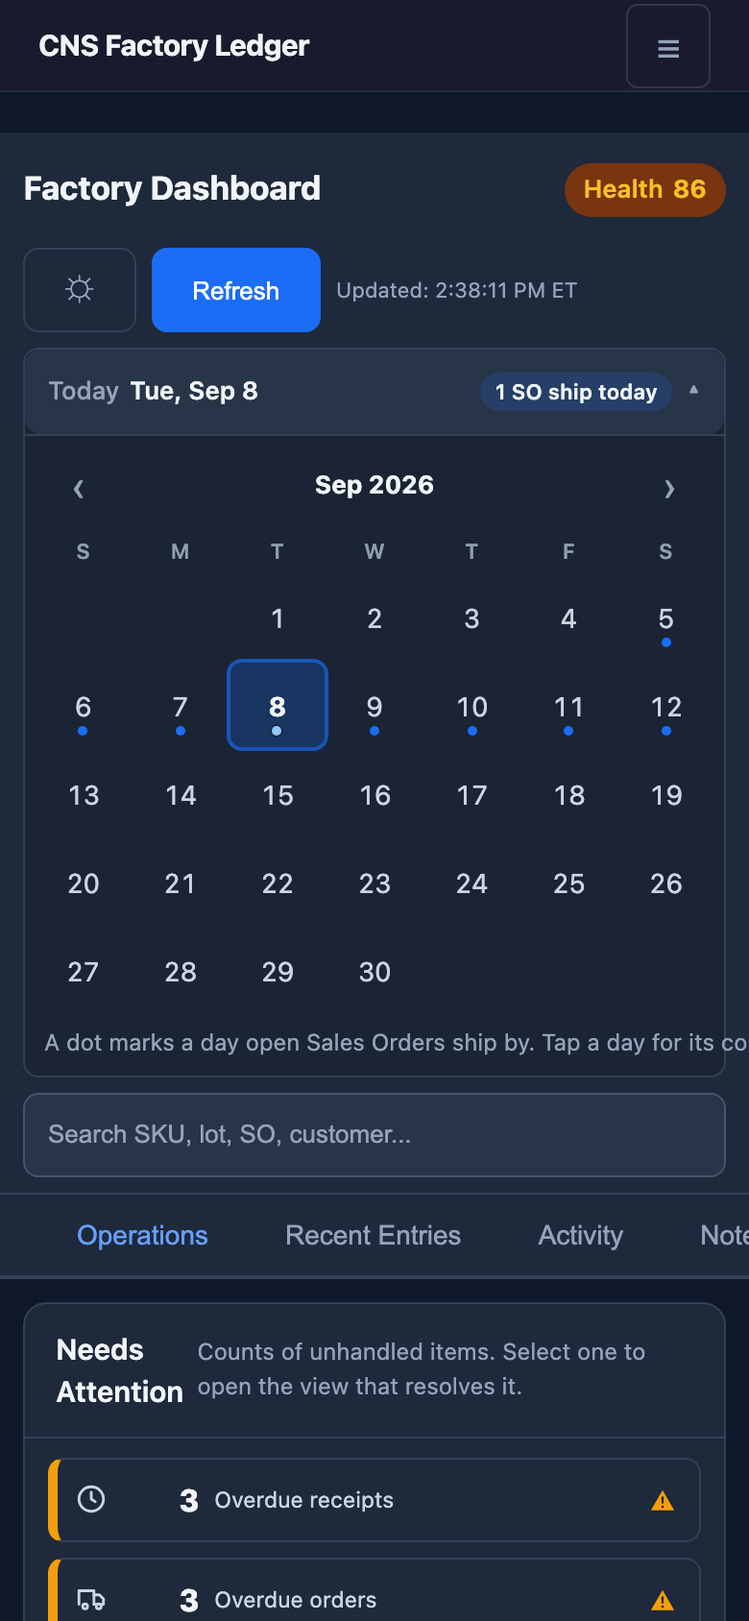
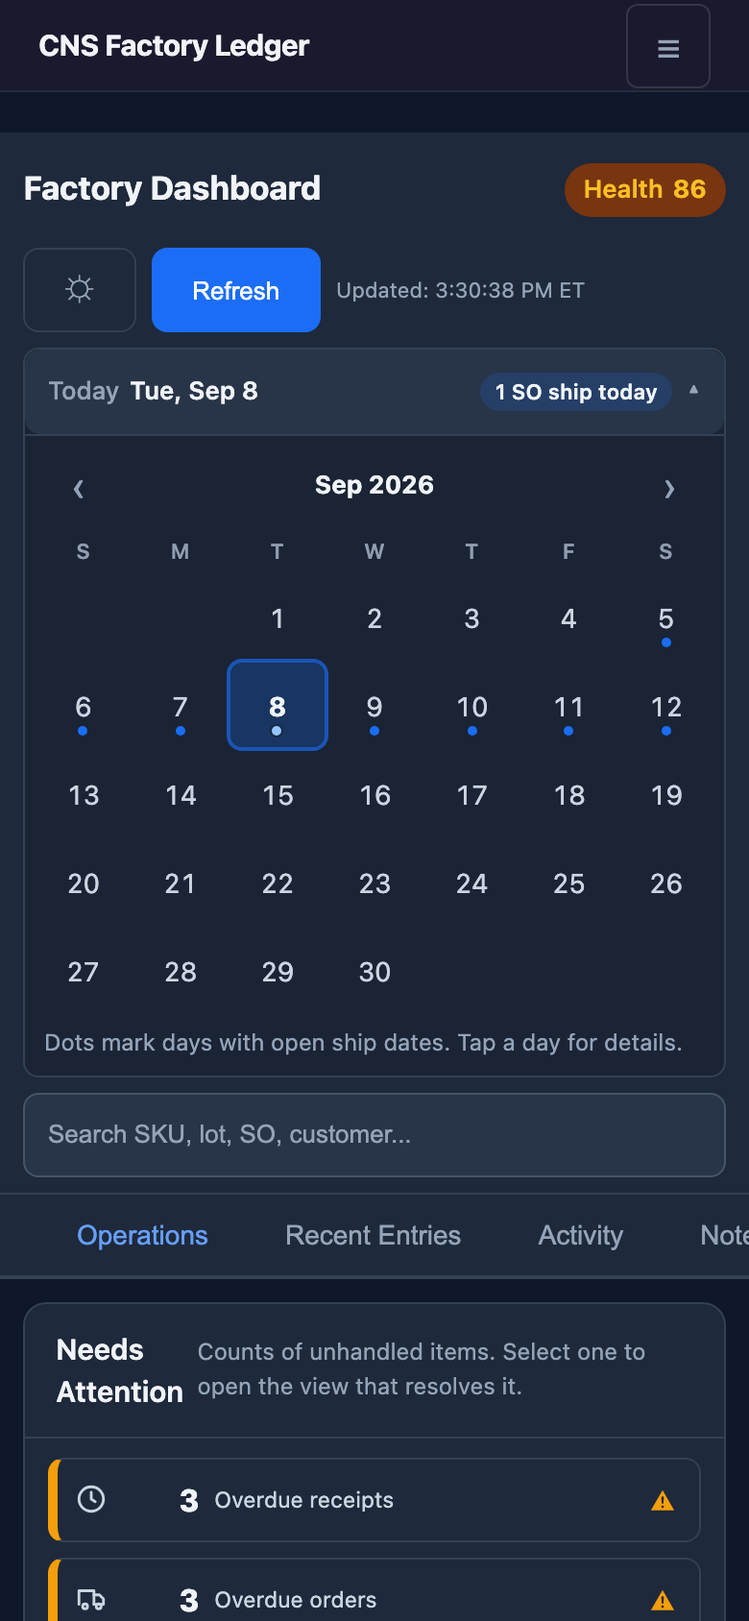
fix(dashboard): IMP-069 — expanded-calendar caption wraps at 390px; harness screen S-02b; IMP-071 note
.mini-calendar-caption { white-space: normal } inside the ≤520px block:
the strip sits in .header-right, whose nowrap inherits through
display: contents, so the caption rendered as one line and widened the
document. Default caption reworded to "Dots mark days with open ship
dates. Tap a day for details."

New harness screen S-02b taps the toggle after load so LAYOUT-003
measures the expanded month at 390px: 0px overflow, 33/33 targets ≥44pt,
45/45 text nodes AA in both themes. Measured directly: scrollWidth 390
with the month open, caption 344px wide.

IMPROVEMENTS-MASTER: one paragraph under IMP-071 on the phone Orders
toolbar's two alignments (.orders-filters keeps align-items: center as a
column; the button row stays left). Cache-bust mini-calendar.css?v=4→5,
mini-calendar.js?v=5→6 on all four pages; matrix regenerated.

Claude-Session: https://claude.ai/code/session_01K6hx2RBBbQen3JPZTQNkxX

diff --git a/dashboard/mini-calendar.js b/dashboard/mini-calendar.js
@@ -137,7 +137,7 @@
       const selDate = new Date(sel[0], sel[1] - 1, sel[2]);
       caption = TODAY_FMT.format(selDate) + ' — ' + shipPhrase(shipDateCounts[ui.selectedKey] || 0);
     } else {
-      caption = 'A dot marks a day open Sales Orders ship by. Tap a day for its count.';
+      caption = 'Dots mark days with open ship dates. Tap a day for details.';
     }
     root.innerHTML = `
       <button type="button" class="mini-calendar-toggle" aria-expanded="${ui.expanded}" aria-controls="${panelId}">

diff --git a/dashboard/mini-calendar.css b/dashboard/mini-calendar.css
@@ -265,4 +265,8 @@
     line-height: 1.4;
     color: var(--text-muted, #94a3b8);
   }
+  /* The strip sits inside .header-right, whose white-space: nowrap
+     inherits through display: contents; without this the caption is one
+     long line and widens the document past 390px. */
+  .mini-calendar-caption { white-space: normal; }
 }

diff --git a/FACTORY_LEDGER_CHANGELOG.md b/FACTORY_LEDGER_CHANGELOG.md
@@ -5,7 +5,7 @@ Every fix is logged here so future sessions know what breaks if a change is reve
 ## Change History
 
 | # | Date | Area | What Changed | Problem It Solved | Breaks If Reverted | Migration/File |
-| 119 | 2026-09-08 | Dashboard phone entry screen — IMP-069 / IMP-070 / IMP-072 / IMP-073 + the phone-header half of IMP-038 (branch `feat/mobile-entry-screen`, based on `main` at `b216d6f` — **PR open, NOT merged/deployed**; static dashboard assets and audit docs only, `main.py`, migrations and GPT instructions untouched) | Everything is scoped to `@media (max-width: 520px)` except two visually-hidden spans. **IMP-069** `b8c3283`: below 520px `mini-calendar.js` renders a compact form instead of the three-month strip — a 44px row (*Today · Tue, Sep 8*, a pill with today's open-SO count when non-zero, a ▾) that expands the current month inline with `--hit-min` prev/next and 44px day `<button>`s whose tap reads the day's ship count into an `aria-live` caption; open state and selected day survive the re-render a ship-count refresh triggers; a `matchMedia('(max-width: 520px)')` listener re-renders across the breakpoint. `renderStrip()` (desktop) is byte-identical; the old ≤520px CSS block is replaced by the compact rules. **IMP-038 (phone header only)** `ca9a8e4`: `.app-header` is a four-row grid at ≤520px — title + health badge, theme / Refresh / Updated at 44px, the collapsed calendar, search — with `.header-left` / `.header-right { display: contents }`; Needs Attention starts at y=357 of 844 with all seven chips above the fold (was y≈690). **IMP-073** `ca9a8e4`: `#health-badge` holds `<span class="health-label">Health</span> <span class="health-score">` — label sr-only above 520px (desktop box unchanged, accessible name now "Health 86"), visible on phone; `refreshHealthBadge` writes into `.health-score` via `setHealthScore()`. **IMP-072** `ca9a8e4`: `formatShipByDate(dateStr, overdue)` adds an `#i-alert` glyph (`.ship-by-flag`, shown ≤520px) and sr-only ", overdue" text (every width) to the weekday line; both callers pass their overdue flag. **IMP-070** `ca9a8e4` + `731ca2a`: `white-space: nowrap` on `td .order-link`, `td .lot-link`, `td .er-reference` (new span round the ER reference / PO), `.order-number`, `.supply-lot-code`, new `.supply-reference` — inside the ≤520px block. `.ship-by-weekday` and `.health-badge` are `position: relative` to contain the sr-only spans. Cache-bust `dashboard.css?v=32→33`, `dashboard.js?v=45→46`, `mini-calendar.css?v=3→4`, `mini-calendar.js?v=4→5` on all four pages. | Phone review of production at 390px (IMP-068…073): three months of 8px display-only digits dominated the first screen and pushed Needs Attention below the fold; the header took four rows; the health badge was a bare number with only a tooltip; SO numbers wrapped at their hyphens across three lines; the overdue weekday was red-only. 384-capture re-run against `main`: TOUCH-003, ACCESS-008, LAYOUT-003 and LAYOUT-011 **cell-identical** (116 / 0 / 12 / 0 failing cells before and after); LAYOUT-020 moved 9 cells, 4 one way and 5 the other, all in the S-07/S-10/S-16/S-17/S-19/S-22 set that flips on unmodified `main` between runs (S-16/S-17 at 390 fail 7 of 12 baseline runs on the same 0.47 shift — the Activity sections emptied and refilled on refresh, SYS-2). Desktop pixel diff with `Date` frozen: 252 desktop-tier captures (1440 light/dark, 720@2× light/dark), 469 differing pixels in total, max channel delta 1/255 — the same anti-aliasing noise two captures of `main` show against each other (363 px). | **The nowrap rule must stay inside the ≤520px block until someone accepts the desktop re-flow**: at 1440px the SO # column already wraps `SO-` / `1421` on `main`, and a width-independent nowrap changes the Orders table's column widths (this is how the rule was first written and caught). **`.ship-by-weekday { position: relative }` and `.health-badge { position: relative }` must stay with the sr-only spans** — without them the absolutely-positioned hidden text escapes `.table-scroll` and widened the Expected Receipts tab by 259px at 390px (first cut, caught by LAYOUT-003). **`setHealthScore` and the two badge spans move together**: `badge.textContent = score` would wipe the label. **`.header-right { display: contents }` needs every grid-area assignment below it** — dropping the areas leaves the header's children auto-placed in a three-column grid. The compact calendar depends on `matchMedia`; without it `isCompact()` is false and the desktop strip renders at every width (the old behaviour, not a crash). `.ship-by-flag` is `display: none` above 520px on purpose — lifting it shows the glyph on desktop, a deliberate follow-up. Not bumping `?v=` on a future edit to these assets serves stale cached copies against fresh HTML. | `dashboard/mini-calendar.js`, `dashboard/mini-calendar.css`, `dashboard/dashboard.css`, `dashboard/dashboard.js`, `dashboard/index.html`, `dashboard/sankey.html`, `dashboard/process-flow.html`, `dashboard/traceability.html`, `docs/design/audit/06-browser-check.md`, `docs/design/audit/IMPROVEMENTS-MASTER.md`, `docs/design/audit/pr-screenshots/feat-mobile-entry-screen/` |
+| 119 | 2026-09-08 | Dashboard phone entry screen — IMP-069 / IMP-070 / IMP-072 / IMP-073 + the phone-header half of IMP-038 (branch `feat/mobile-entry-screen`, based on `main` at `b216d6f` — **PR open, NOT merged/deployed**; static dashboard assets and audit docs only, `main.py`, migrations and GPT instructions untouched) | Everything is scoped to `@media (max-width: 520px)` except two visually-hidden spans. **IMP-069** `b8c3283`: below 520px `mini-calendar.js` renders a compact form instead of the three-month strip — a 44px row (*Today · Tue, Sep 8*, a pill with today's open-SO count when non-zero, a ▾) that expands the current month inline with `--hit-min` prev/next and 44px day `<button>`s whose tap reads the day's ship count into an `aria-live` caption; open state and selected day survive the re-render a ship-count refresh triggers; a `matchMedia('(max-width: 520px)')` listener re-renders across the breakpoint. `renderStrip()` (desktop) is byte-identical; the old ≤520px CSS block is replaced by the compact rules. **IMP-038 (phone header only)** `ca9a8e4`: `.app-header` is a four-row grid at ≤520px — title + health badge, theme / Refresh / Updated at 44px, the collapsed calendar, search — with `.header-left` / `.header-right { display: contents }`; Needs Attention starts at y=357 of 844 with all seven chips above the fold (was y≈690). **IMP-073** `ca9a8e4`: `#health-badge` holds `<span class="health-label">Health</span> <span class="health-score">` — label sr-only above 520px (desktop box unchanged, accessible name now "Health 86"), visible on phone; `refreshHealthBadge` writes into `.health-score` via `setHealthScore()`. **IMP-072** `ca9a8e4`: `formatShipByDate(dateStr, overdue)` adds an `#i-alert` glyph (`.ship-by-flag`, shown ≤520px) and sr-only ", overdue" text (every width) to the weekday line; both callers pass their overdue flag. **IMP-070** `ca9a8e4` + `731ca2a`: `white-space: nowrap` on `td .order-link`, `td .lot-link`, `td .er-reference` (new span round the ER reference / PO), `.order-number`, `.supply-lot-code`, new `.supply-reference` — inside the ≤520px block. `.ship-by-weekday` and `.health-badge` are `position: relative` to contain the sr-only spans. Cache-bust `dashboard.css?v=32→33`, `dashboard.js?v=45→46`, `mini-calendar.css?v=3→4`, `mini-calendar.js?v=4→5` on all four pages. | Phone review of production at 390px (IMP-068…073): three months of 8px display-only digits dominated the first screen and pushed Needs Attention below the fold; the header took four rows; the health badge was a bare number with only a tooltip; SO numbers wrapped at their hyphens across three lines; the overdue weekday was red-only. 384-capture re-run against `main`: TOUCH-003, ACCESS-008, LAYOUT-003 and LAYOUT-011 **cell-identical** (116 / 0 / 12 / 0 failing cells before and after); LAYOUT-020 moved 9 cells, 4 one way and 5 the other, all in the S-07/S-10/S-16/S-17/S-19/S-22 set that flips on unmodified `main` between runs (S-16/S-17 at 390 fail 7 of 12 baseline runs on the same 0.47 shift — the Activity sections emptied and refilled on refresh, SYS-2). Desktop pixel diff with `Date` frozen: 252 desktop-tier captures (1440 light/dark, 720@2× light/dark), 469 differing pixels in total, max channel delta 1/255 — the same anti-aliasing noise two captures of `main` show against each other (363 px). | **The nowrap rule must stay inside the ≤520px block until someone accepts the desktop re-flow**: at 1440px the SO # column already wraps `SO-` / `1421` on `main`, and a width-independent nowrap changes the Orders table's column widths (this is how the rule was first written and caught). **`.ship-by-weekday { position: relative }` and `.health-badge { position: relative }` must stay with the sr-only spans** — without them the absolutely-positioned hidden text escapes `.table-scroll` and widened the Expected Receipts tab by 259px at 390px (first cut, caught by LAYOUT-003). **`setHealthScore` and the two badge spans move together**: `badge.textContent = score` would wipe the label. **`.header-right { display: contents }` needs every grid-area assignment below it** — dropping the areas leaves the header's children auto-placed in a three-column grid. **`.mini-calendar-caption { white-space: normal }` must stay** — `.header-right`'s `nowrap` inherits through `display: contents` and the caption becomes one line that widens the document past 390px (caught in PR review; harness screen S-02b now measures the expanded month). The compact calendar depends on `matchMedia`; without it `isCompact()` is false and the desktop strip renders at every width (the old behaviour, not a crash). `.ship-by-flag` is `display: none` above 520px on purpose — lifting it shows the glyph on desktop, a deliberate follow-up. Not bumping `?v=` on a future edit to these assets serves stale cached copies against fresh HTML. | `dashboard/mini-calendar.js`, `dashboard/mini-calendar.css`, `dashboard/dashboard.css`, `dashboard/dashboard.js`, `dashboard/index.html`, `dashboard/sankey.html`, `dashboard/process-flow.html`, `dashboard/traceability.html`, `docs/design/audit/06-browser-check.md`, `docs/design/audit/IMPROVEMENTS-MASTER.md`, `docs/design/audit/pr-screenshots/feat-mobile-entry-screen/`, `tests/visual/lib/screens.mjs` |
 | 118 | 2026-09-08 | ER-intake review screen: card layout + match/lb-source honesty (dashboard-only, no backend change — **DEPLOYED 2026-09-08** with this push) | Live-smoke fixes to the review screen (live case: "tote of honey" / Dutch Gold Honey / fuzzy 43% → Honey 11030, prod purchase_documents row 1). Behavior: an explicit product pick (suggestion click or typeahead) now sets `match_source='chosen'` — the amber "Fuzzy n%" badge can never coexist with an enabled Approve; "Change" restores the server's verdict (`server_match_source`/`server_confidence` kept on each line), including after a failed re-match (`applyRematchFailure`). `qty_lb_source` is now only `'computed'` (qty × lb/unit) or `'manual'` (typed directly) — editing lb/unit no longer stamps the untouched expected-lb field "manual"; qty/unit carry a `qty_source` tag (`from document`/`edited`). lb/unit + expected-lb inputs have NO placeholders ("?"/"required" removed — INPUT-022) and each empty value shows an amber "needs lb" flag. Footer totals name the blockers while Approve is disabled ("N line(s) need a product or lb" — FEEDBACK-008). Verified: untouched fuzzy line CANNOT enable Approve (node repro of the exact live /match payload; prod created zero ERs during the smoke — the button was disabled, but only the app-standard 0.55-dim + dashed outline marked it). Layout: the per-line table (8 columns, modal widened to 940px, horizontal scroll at real window sizes) replaced by stacked cards — vendor text verbatim + badge / product row (name + code + Change, or picker + suggestions) / one quantity row qty × unit → lb/unit → expected lb with a source tag beneath each / Include + Save alias footer row; header is a compact 2-column grid (supplier full-width, reference + date beside each other); totals + Start over/Approve sticky at the panel bottom (body bottom-padding dropped in review mode so cards can't peek beneath); `.er-modal.er-reviewing{max-width:940px}` removed — modal stays ~520px, zero horizontal scrolling verified in Chrome at 500px and 380px modal widths (local uvicorn harness, faked extractor/storage, end-to-end approve exercised then cleaned from the test DB). Cache-busts `dashboard.css?v=35`, `er-intake-logic.js?v=7`, `dashboard.js?v=52`. 35/35 node logic tests; suite 485 passed + known pre-existing test_recent_ledger failure. | Owner's live smoke read the review screen as "fuzzy suggestion enabled Approve": the Fuzzy badge survived a product pick, a manual lb/unit edit labeled the untouched expected-lb field "manual", placeholder text sat inside empty lb inputs, and the 8-column table forced horizontal scrolling in a ~500px modal with the approve state ambiguous. | Reverting `match_source='chosen'` on pick resurrects the Fuzzy-badge-with-enabled-Approve ambiguity; restoring input placeholders re-violates INPUT-022 (hint mistaken for value); restoring `qty_lb_source=lb_source`/'manual' plumbing re-labels untouched fields; bringing the table back reintroduces horizontal scroll at ≤500px (LAYOUT-003). `server_match_source` must keep being set in `buildReviewLine` — `clearChosen`/`applyRematchFailure` read it. | `dashboard/er-intake-logic.js`, `dashboard/dashboard.js`, `dashboard/dashboard.css`, `dashboard/index.html`, `tests/test_er_intake_logic.js` |
 | 117 | 2026-09-08 | AI-assisted expected-receipt intake (renumbered from a colliding 115; rows 115/116 = hit-target/contrast sessions, row-28 precedent) — migration 049, extraction module, 5 endpoints, dashboard review flow (branch `feat/er-intake`, commits `2668905`/`37c61f3`/`cf429f0`/`c837a8e` + Phase 3, based on `main` at `4a532ff` — **DEPLOYED 2026-09-08**: migration 049 applied to prod (session pooler) BEFORE merge 1c795a9 → Railway + Netlify live, owner smoke passed; 3 audit rounds closed (docs/designs/er-intake-audit-{1,2,3}.md); design: `docs/designs/expected-receipt-intake.md`) | Vendor PO/confirmation (PNG/JPG/PDF ≤15 MB) dropped into the New Expected Receipt modal → `POST /expected-receipts/extract` inserts a `purchase_documents` row FIRST, then uploads to private Supabase Storage bucket `purchase-documents` (auto-created), then calls `extraction.extract_purchase_document()` (Anthropic forced tool-use, model `claude-sonnet-5` / `EXTRACTION_MODEL` env, nullable ref/date/unit fields, never-guess + verbatim-description prompt; `anthropic==0.69.0` + `httpx==0.27.2` pinned — the 1.x SDK's vendored httpx2 needs anyio≥4.10 and conflicts with FastAPI 0.104.1) → `POST /expected-receipts/match` (deterministic, no LLM: `supplier_product_aliases` → exact → strong fuzzy → V1-stubbed AI candidate pick → human; product-master lb conversion ONLY for alias/exact; fuzzy/none keep expected_qty_lb null until a human confirms) → review screen (supplier candidates + create-supplier, duplicate banner across ALL statuses with force override, per-line product picker, lb-source tag next to every computed value) → `POST /expected-receipts/extract/approve` creates one ER per line ATOMICALLY via the new `_create_expected_receipt_core()` (shared with manual POST /expected-receipts), upserts aliases latest-wins, stamps the document approved. Also: retry endpoint `POST /purchase-documents/{id}/extract` (extraction failure keeps file+row), signed-URL endpoint, `expected_receipts.source_document_id` + paperclip link on ER rows, 5 DASHBOARD_KEY_ALLOWLIST entries, `dashboard.js?v=43→44` / `dashboard.css?v=30→31`. 88 tests in `tests/test_expected_receipt_extract.py`; suite 400 passed (+1 pre-existing test_recent_ledger failure, also on clean main); browser-verified end-to-end on local uvicorn + faked extractor/storage. | Expected receipts had ZERO rows ever entered (2026-08-24 traceability audit) — manual line-by-line entry was the adoption blocker; supplier wording→product mapping was re-derived by a human on every PO. | **DEPLOY ORDER: migration 049 must be applied to prod BEFORE this branch deploys** — main.py selects `er.source_document_id` in EXPECTED_RECEIPT_SELECT_SQL, so the Expected Receipts endpoints 500 against a pre-049 schema. Reverting the row-first order in /extract lets readonly-armed requests write orphan Storage objects. Reverting `_create_expected_receipt_core()` forks manual vs intake creation semantics. Removing the alias-before-fuzzy order or the alias upsert breaks learned matching (aliases stop winning / stop updating). Loosening the product-master lb gate to fuzzy matches auto-converts pounds for products a human never confirmed. Unpinning anthropic/httpx breaks the Railway build (anyio conflict) or TestClient. Env prerequisites: `ANTHROPIC_API_KEY`, `SUPABASE_URL`, `SUPABASE_SERVICE_ROLE_KEY` on Railway. `tests/schema/schema.sql` carries a pending `\ir 049` block until the prod apply + re-dump. | `migrations/049_purchase_doc_intake.sql`, `extraction.py`, `main.py`, `requirements.txt`, `dashboard/index.html`, `dashboard/dashboard.js`, `dashboard/dashboard.css`, `tests/test_expected_receipt_extract.py`, `docs/designs/expected-receipt-intake.md` |
 | 116 | 2026-09-08 | Dashboard contrast — systemic ACCESS-008 clusters A1/A4/A5/A7/A8 + IMP-068 (branch `fix/systemic-contrast-c`, based on `main` at `feefa17` — **PR open, NOT merged/deployed**; static dashboard assets and audit docs only, `main.py`, migrations and GPT instructions untouched) | One commit per cluster. **A5** `f99553b`: new token `--primary-text` (dark `#669ef8`, light `#195aea`) in both `dashboard.css` theme blocks and the `:root` of `sankey.html`, `process-flow.html`, `traceability.html`; `.tab.active` (colour + `border-bottom-color`), `.lot-link`, `.order-link`, `.show-more-btn`, the three pages' `a` rule, every `:focus` border / outline that was on `--primary` and the selected day-card inset ring now read it. **A4** `001f97b`: dark `--primary` `#3b82f6` → `#1b6df5` (light stays `#2563eb`); the four hard-coded `.site-nav-link.active { background:#3b82f6 }` copies and process-flow's `.data-failure-retry` read `var(--primary)`. **A1** `4578b2f`: `opacity: 0.5–0.65` removed from `.note-card.done`, `tr.order-row.so-ready`, `.allocation-row.allocation-status-released/superseded/shipped`, `tr.er-inactive td`, `.supply-request-done td`, the two empty-state icons and the depleted-lots `<table>` string in `dashboard.js`, each replaced by `color: var(--text-muted)` (or `--text-dimmed`) on the text; `.so-ready-pill` `#86efac` → `var(--badge-green-text)`; `button:disabled` in `interaction.css`, `.btn-refresh:disabled`/`.btn-sm:disabled` and `.btn-refresh.loading` keep their opacity and add `outline: 1px dashed currentColor; outline-offset: -3px`. **A7** `ef75588`: `::placeholder { color: var(--text-muted); opacity: 1 }` in `dashboard.css` and on traceability's `.search-input`; `.form-group input[type="number"]` added to the field rule. **A8** `cea45fe`: `[data-theme="light"]` token blocks in the three chart pages plus a `<head>` script setting `data-theme` from `localStorage.dashboard-theme`; their hard-coded banner / badge / card / danger colours tokenised in both themes; process-flow `--text-muted`/`--text-dim` `#888`/`#555` → `#989898`, `--badge-idle-text` → `#a7a7a7`, `--danger-text` `#e46868`, `--badge-active-bg` `#188462`; traceability `--text-dimmed` `#64748b` → `#8392a6`, `--danger` → `#f16161`, `colorHex` read from the `--col-*` tokens, print block on the light palette; sankey `--text-dimmed: #929fb1`; scheduler `--amber` `#b46a00` → `#9f5e00`, `--idle` → `#697380`, `--ok` → `#2d7a4d`, new `--ink3: #616b7d` for `.dtl-breakdown`, `::placeholder` on `--ink2`, print blackens the topbar accents. **IMP-068** `e171ed9`: `overflow-wrap: anywhere` removed from `.att-label`; `@media (max-width: 420px) { .attention-strip { grid-template-columns: 1fr } }`. Cache-bust `dashboard.css?v=31→32`, `dashboard.js?v=44→45`, `interaction.css?v=1→2` on all five pages (`d65bfff`). | ACCESS-008 was the last open contrast rule: 208 of 384 captures failed, five root causes (`07-systemic-clusters.md`): an opacity veil on text rows (worst 1.16:1), `--primary` serving as both a fill and a text colour, unstyled placeholders (2.69:1), and three pages with no light palette. Re-run: **ACCESS-008 208 → 0 failing cells (rule closed)**, TOUCH-003 116→116, LAYOUT-003 12→12, LAYOUT-011 0→0 cell-identical, LAYOUT-020 ±4 cells of the pre-existing clock-dependent header shift. IMP-068 is the mid-word label break seen on a phone in production. | **`--primary` and `--primary-text` must stay split** — putting text back on `--primary` returns dark links to 3.17:1 (worse than before A4), and putting fills on `--primary-text` puts white on `#669ef8` at 2.7:1. **The focus rings must stay on `--primary-text`**: the A4 fill value is 2.69:1 on `--search-bg`, below the 3:1 non-text floor. **The three pages' head script and their `[data-theme="light"]` blocks move together**: without the script the light block is dead code in production; without the block the script does nothing. `colorHex` in traceability reads tokens through a Proxy — restoring the literal table leaves the light graph on dark-surface colours. Restoring any `opacity` on a text row re-fails every cell in it, and `.so-ready-pill` needs a per-theme colour (its old `#86efac` fails at 1.5:1 in light even without the veil). Removing the dashed outline from `button:disabled` leaves the disabled state carried by a translucent colour alone. Restoring `.att-label { overflow-wrap: anywhere }` reintroduces the mid-word breaks at 390 px. Not bumping `?v=` on a future edit serves stale cached copies. | `dashboard/dashboard.css`, `dashboard/dashboard.js`, `dashboard/interaction.css`, `dashboard/index.html`, `dashboard/sankey.html`, `dashboard/process-flow.html`, `dashboard/traceability.html`, `dashboard/scheduler/seven-wells-production-board.html`, `docs/design/audit/06-browser-check.md`, `docs/design/audit/IMPROVEMENTS-MASTER.md` |

diff --git a/docs/design/audit/06-browser-check.md b/docs/design/audit/06-browser-check.md
@@ -15,14 +15,14 @@ within the run — which is what the LAYOUT-020 before/after comparison depends 
 
 | Variant | Viewport | DPR | Screens captured |
 |---|---|---|---|
-| `390-light` | 390×844 | 3 | 66 |
-| `390-dark` | 390×844 | 3 | 66 |
-| `1440-light` | 1440×900 | 1 | 87 |
-| `1440-dark` | 1440×900 | 1 | 87 |
+| `390-light` | 390×844 | 3 | 67 |
+| `390-dark` | 390×844 | 3 | 67 |
+| `1440-light` | 1440×900 | 1 | 88 |
+| `1440-dark` | 1440×900 | 1 | 88 |
 | `zoom200-light` | 720×450 CSS px (1440×900 at 200% zoom) | 2 | 39 |
 | `zoom200-dark` | 720×450 CSS px (1440×900 at 200% zoom) | 2 | 39 |
 
-384 captures in total. Screenshots are written to `docs/design/audit/screenshots/<variant>/<S-id>.png`;
+388 captures in total. Screenshots are written to `docs/design/audit/screenshots/<variant>/<S-id>.png`;
 they are build output, regenerated by `npm run test:visual`, and are not committed.
 
 ## What is and is not checked
@@ -51,12 +51,12 @@ CLS 0.25, fails above it.
 
 | Rule | PASS | FAIL | WARN | n/a | err |
 |---|---:|---:|---:|---:|---:|
-| TOUCH-003 | 212 | 116 | 0 | 56 | 0 |
-| ACCESS-008 | 380 | 0 | 0 | 4 | 0 |
-| LAYOUT-003/ACCESS-001 | 372 | 12 | 0 | 0 | 0 |
-| LAYOUT-011 | 384 | 0 | 0 | 0 | 0 |
-| LAYOUT-020 | 237 | 10 | 55 | 82 | 0 |
-| **All** | **1585** | **138** | **55** | **142** | **0** |
+| TOUCH-003 | 216 | 116 | 0 | 56 | 0 |
+| ACCESS-008 | 384 | 0 | 0 | 4 | 0 |
+| LAYOUT-003/ACCESS-001 | 376 | 12 | 0 | 0 | 0 |
+| LAYOUT-011 | 388 | 0 | 0 | 0 | 0 |
+| LAYOUT-020 | 236 | 12 | 58 | 82 | 0 |
+| **All** | **1600** | **140** | **58** | **142** | **0** |
 
 ## Matrix — screen × rule × status
 
@@ -76,6 +76,11 @@ column links the 1440px dark capture, or the first capture taken where that one 
 | **S-02** Mini-calendar strip (3-month) | LAYOUT-003/ACCESS-001 | PASS | PASS | PASS | PASS | — | — | [png](screenshots/1440-dark/S-02.png) |
 | **S-02** Mini-calendar strip (3-month) | LAYOUT-011 | PASS | PASS | PASS | PASS | — | — | [png](screenshots/1440-dark/S-02.png) |
 | **S-02** Mini-calendar strip (3-month) | LAYOUT-020 | PASS | PASS | WARN | WARN | — | — | [png](screenshots/1440-dark/S-02.png) |
+| **S-02b** Mini-calendar — expanded month (phone) | TOUCH-003 | PASS | PASS | PASS | PASS | — | — | [png](screenshots/1440-dark/S-02b.png) |
+| **S-02b** Mini-calendar — expanded month (phone) | ACCESS-008 | PASS | PASS | PASS | PASS | — | — | [png](screenshots/1440-dark/S-02b.png) |
+| **S-02b** Mini-calendar — expanded month (phone) | LAYOUT-003/ACCESS-001 | PASS | PASS | PASS | PASS | — | — | [png](screenshots/1440-dark/S-02b.png) |
+| **S-02b** Mini-calendar — expanded month (phone) | LAYOUT-011 | PASS | PASS | PASS | PASS | — | — | [png](screenshots/1440-dark/S-02b.png) |
+| **S-02b** Mini-calendar — expanded month (phone) | LAYOUT-020 | PASS | PASS | WARN | WARN | — | — | [png](screenshots/1440-dark/S-02b.png) |
 | **S-03** App header | TOUCH-003 | PASS | PASS | PASS | PASS | PASS | PASS | [png](screenshots/1440-dark/S-03.png) |
 | **S-03** App header | ACCESS-008 | PASS | PASS | PASS | PASS | PASS | PASS | [png](screenshots/1440-dark/S-03.png) |
 | **S-03** App header | LAYOUT-003/ACCESS-001 | PASS | PASS | PASS | PASS | PASS | PASS | [png](screenshots/1440-dark/S-03.png) |
@@ -145,7 +150,7 @@ column links the 1440px dark capture, or the first capture taken where that one 
 | **S-16** Daily Entries + day/mode toolbar | ACCESS-008 | PASS | PASS | PASS | PASS | — | — | [png](screenshots/1440-dark/S-16.png) |
 | **S-16** Daily Entries + day/mode toolbar | LAYOUT-003/ACCESS-001 | PASS | PASS | PASS | PASS | — | — | [png](screenshots/1440-dark/S-16.png) |
 | **S-16** Daily Entries + day/mode toolbar | LAYOUT-011 | PASS | PASS | PASS | PASS | — | — | [png](screenshots/1440-dark/S-16.png) |
-| **S-16** Daily Entries + day/mode toolbar | LAYOUT-020 | PASS | FAIL | FAIL | PASS | — | — | [png](screenshots/1440-dark/S-16.png) |
+| **S-16** Daily Entries + day/mode toolbar | LAYOUT-020 | FAIL | FAIL | FAIL | FAIL | — | — | [png](screenshots/1440-dark/S-16.png) |
 | **S-17** Shipping log | TOUCH-003 | FAIL | FAIL | FAIL | FAIL | — | — | [png](screenshots/1440-dark/S-17.png) |
 | **S-17** Shipping log | ACCESS-008 | PASS | PASS | PASS | PASS | — | — | [png](screenshots/1440-dark/S-17.png) |
 | **S-17** Shipping log | LAYOUT-003/ACCESS-001 | PASS | PASS | PASS | PASS | — | — | [png](screenshots/1440-dark/S-17.png) |
@@ -170,12 +175,12 @@ column links the 1440px dark capture, or the first capture taken where that one 
 | **S-21** Notes — empty state | ACCESS-008 | PASS | PASS | PASS | PASS | — | — | [png](screenshots/1440-dark/S-21.png) |
 | **S-21** Notes — empty state | LAYOUT-003/ACCESS-001 | PASS | PASS | PASS | PASS | — | — | [png](screenshots/1440-dark/S-21.png) |
 | **S-21** Notes — empty state | LAYOUT-011 | PASS | PASS | PASS | PASS | — | — | [png](screenshots/1440-dark/S-21.png) |
-| **S-21** Notes — empty state | LAYOUT-020 | PASS | PASS | PASS | PASS | — | — | [png](screenshots/1440-dark/S-21.png) |
+| **S-21** Notes — empty state | LAYOUT-020 | PASS | PASS | PASS | WARN | — | — | [png](screenshots/1440-dark/S-21.png) |
 | **S-22** Dialog — Note create/edit modal | TOUCH-003 | PASS | PASS | PASS | PASS | — | — | [png](screenshots/1440-dark/S-22.png) |
 | **S-22** Dialog — Note create/edit modal | ACCESS-008 | PASS | PASS | PASS | PASS | — | — | [png](screenshots/1440-dark/S-22.png) |
 | **S-22** Dialog — Note create/edit modal | LAYOUT-003/ACCESS-001 | PASS | PASS | PASS | PASS | — | — | [png](screenshots/1440-dark/S-22.png) |
 | **S-22** Dialog — Note create/edit modal | LAYOUT-011 | PASS | PASS | PASS | PASS | — | — | [png](screenshots/1440-dark/S-22.png) |
-| **S-22** Dialog — Note create/edit modal | LAYOUT-020 | PASS | PASS | WARN | PASS | — | — | [png](screenshots/1440-dark/S-22.png) |
+| **S-22** Dialog — Note create/edit modal | LAYOUT-020 | PASS | PASS | PASS | WARN | — | — | [png](screenshots/1440-dark/S-22.png) |
 | **S-23** Dialog — Delete note confirmation | _all_ | n/a | n/a | n/a | n/a | n/a | n/a | — Browser-native window.confirm — rendered by the browser, not the page. Nothing in the document can be measured. |
 | **S-24** Orders toolbar | TOUCH-003 | PASS | PASS | PASS | PASS | PASS | PASS | [png](screenshots/1440-dark/S-24.png) |
 | **S-24** Orders toolbar | ACCESS-008 | PASS | PASS | PASS | PASS | PASS | PASS | [png](screenshots/1440-dark/S-24.png) |
@@ -600,7 +605,7 @@ is what LAYOUT-020 prohibits.
   case the rule is about — content changing with no user action. **74 of 74 recorded CLS 0 with nothing moved.**
   Process Flow keeps its last good render and rewrites in place; the countdown rewrites text inside a fixed cell.
   On the evidence of this run the product has no background refresh that moves content under the user.
-* **The Refresh control was pressed** (228 captures), because those screens have no timer of their own.
+* **The Refresh control was pressed** (232 captures), because those screens have no timer of their own.
   LAYOUT-020 permits layout change that is "a direct response to their explicit action", so a shift here is not a
   violation of the letter of the rule. It is reported because the same `refreshAll()` path runs unprompted at app
   start, and because it demonstrates the blank-and-repaint behaviour (SYS-2) that *would* violate the rule the
@@ -611,53 +616,53 @@ because their ordinal position moved. It is a signal to look, not a finding on i
 
 | Screen | Variant | CLS | Moved | Max Δ | Anchors lost | Trigger | Worst mover |
 |---|---|---:|---:|---:|---:|---|---|
+| **S-16** Daily Entries + day/mode toolbar | `390-dark` | **0.6414** | 0 | 0px | 0 | #refresh-btn | — |
+| **S-16** Daily Entries + day/mode toolbar | `390-light` | **0.4931** | 0 | 0px | 0 | #refresh-btn | — |
 | **S-17** Shipping log | `390-dark` | **0.4931** | 0 | 0px | 17 | #refresh-btn | — |
 | **S-18** Receiving log | `390-light` | **0.4931** | 0 | 0px | 5 | #refresh-btn | — |
-| **S-18** Receiving log | `390-dark` | **0.4931** | 0 | 0px | 5 | #refresh-btn | — |
-| **S-16** Daily Entries + day/mode toolbar | `390-dark` | **0.477** | 0 | 0px | 0 | #refresh-btn | — |
 | **S-17** Shipping log | `390-light` | **0.477** | 0 | 0px | 17 | #refresh-btn | — |
+| **S-18** Receiving log | `390-dark` | **0.477** | 0 | 0px | 5 | #refresh-btn | — |
 | **S-17** Shipping log | `1440-dark` | **0.353** | 0 | 0px | 17 | #refresh-btn | — |
-| **S-17** Shipping log | `1440-light` | **0.3044** | 0 | 0px | 17 | #refresh-btn | — |
+| **S-16** Daily Entries + day/mode toolbar | `1440-dark` | **0.3367** | 0 | 0px | 0 | #refresh-btn | — |
+| **S-17** Shipping log | `1440-light` | **0.3047** | 2 | 3px | 17 | #refresh-btn | BUTTON theme-toggle btn-theme ☾ (Δx 3px, Δy 0px) |
+| **S-16** Daily Entries + day/mode toolbar | `1440-light` | **0.2884** | 0 | 0px | 0 | #refresh-btn | — |
 | **S-18** Receiving log | `1440-dark` | **0.2883** | 0 | 0px | 5 | #refresh-btn | — |
-| **S-16** Daily Entries + day/mode toolbar | `1440-light` | **0.2882** | 0 | 0px | 0 | #refresh-btn | — |
 | **S-18** Receiving log | `1440-light` | **0.2881** | 0 | 0px | 5 | #refresh-btn | — |
+| **S-09** Production Calendar — day detail panel | `1440-light` | **0.2296** | 0 | 0px | 0 | #refresh-btn | — |
 | **S-09** Production Calendar — day detail panel | `1440-dark` | **0.2296** | 0 | 0px | 0 | #refresh-btn | — |
-| **S-09** Production Calendar — day detail panel | `1440-light` | **0.2295** | 0 | 0px | 0 | #refresh-btn | — |
-| **S-01** Site navigation bar | `1440-dark` | **0.1543** | 0 | 0px | 0 | #refresh-btn | — |
-| **S-02** Mini-calendar strip (3-month) | `1440-dark` | **0.1543** | 0 | 0px | 0 | #refresh-btn | — |
+| **S-03** App header | `1440-dark` | **0.1543** | 0 | 0px | 0 | #refresh-btn | — |
 | **S-04** Global search field + results dropdown | `1440-dark` | **0.1543** | 0 | 0px | 77 | #refresh-btn | — |
-| **S-13** On-Hand Ingredients | `1440-dark` | **0.1543** | 0 | 0px | 8 | #refresh-btn | — |
-| **S-55** Lot disambiguation view | `1440-dark` | **0.1543** | 2 | 3px | 41 | #refresh-btn | TH  num On Hand (lb) (Δx 3px, Δy 0px) |
-| **S-56** Product Detail panel (active + depleted lots) | `1440-light` | **0.1543** | 0 | 0px | 0 | #refresh-btn | — |
-| **S-56** Product Detail panel (active + depleted lots) | `1440-dark` | **0.1543** | 0 | 0px | 0 | #refresh-btn | — |
-| **S-04** Global search field + results dropdown | `1440-light` | **0.1542** | 0 | 0px | 77 | #refresh-btn | — |
-| **S-12** Batch Inventory On-Hand | `1440-light` | **0.1542** | 2 | 72px | 22 | #refresh-btn | TH  num On Hand (lb) (Δx 72px, Δy 0px) |
-| **S-13** On-Hand Ingredients | `1440-light` | **0.1542** | 0 | 0px | 8 | #refresh-btn | — |
-| **S-05** Tab bar (7 tabs) | `1440-dark` | **0.1336** | 0 | 0px | 0 | #refresh-btn | — |
-| **S-08** Production Calendar (rolling 5-day) | `1440-dark` | **0.1336** | 0 | 0px | 0 | #refresh-btn | — |
-| **S-10** Finished Goods On-Hand — collapsible panels | `1440-dark` | **0.1336** | 0 | 0px | 0 | #refresh-btn | — |
-| **S-54** Lot Detail side panel | `1440-dark` | **0.1336** | 2 | 3px | 39 | #refresh-btn | TH  num On Hand (lb) (Δx 3px, Δy 0px) |
+| **S-08** Production Calendar (rolling 5-day) | `1440-light` | **0.1543** | 0 | 0px | 0 | #refresh-btn | — |
+| **S-08** Production Calendar (rolling 5-day) | `1440-dark` | **0.1543** | 0 | 0px | 0 | #refresh-btn | — |
+| **S-10** Finished Goods On-Hand — collapsible panels | `1440-dark` | **0.1543** | 0 | 0px | 0 | #refresh-btn | — |
+| **S-11** Finished Goods — per-product lot breakdown | `1440-dark` | **0.1543** | 2 | 3px | 37 | #refresh-btn | TH  num On Hand (lb) (Δx 3px, Δy 0px) |
+| **S-12** Batch Inventory On-Hand | `1440-dark` | **0.1543** | 2 | 72px | 22 | #refresh-btn | TH  num On Hand (lb) (Δx 72px, Δy 0px) |
+| **S-06** Today So Far tile | `1440-dark` | **0.1337** | 0 | 0px | 0 | #refresh-btn | — |
+| **S-01** Site navigation bar | `1440-dark` | **0.1336** | 0 | 0px | 0 | #refresh-btn | — |
+| **S-02** Mini-calendar strip (3-month) | `1440-light` | **0.1336** | 0 | 0px | 0 | #refresh-btn | — |
+| **S-02** Mini-calendar strip (3-month) | `1440-dark` | **0.1336** | 0 | 0px | 0 | #refresh-btn | — |
+| **S-04** Global search field + results dropdown | `1440-light` | **0.1336** | 0 | 0px | 77 | #refresh-btn | — |
+| **S-10** Finished Goods On-Hand — collapsible panels | `1440-light` | **0.1336** | 0 | 0px | 0 | #refresh-btn | — |
 | **S-55** Lot disambiguation view | `1440-light` | **0.1336** | 2 | 3px | 41 | #refresh-btn | TH  num On Hand (lb) (Δx 3px, Δy 0px) |
-| **S-01** Site navigation bar | `1440-light` | **0.1335** | 0 | 0px | 0 | #refresh-btn | — |
-| **S-02** Mini-calendar strip (3-month) | `1440-light` | **0.1335** | 0 | 0px | 0 | #refresh-btn | — |
-| **S-03** App header | `1440-dark` | **0.1335** | 0 | 0px | 0 | #refresh-btn | — |
-| **S-05** Tab bar (7 tabs) | `1440-light` | **0.1335** | 0 | 0px | 0 | #refresh-btn | — |
-| **S-06** Today So Far tile | `1440-light` | **0.1335** | 0 | 0px | 0 | #refresh-btn | — |
-| **S-10** Finished Goods On-Hand — collapsible panels | `1440-light` | **0.1335** | 0 | 0px | 0 | #refresh-btn | — |
-| **S-06** Today So Far tile | `1440-dark` | **0.1334** | 0 | 0px | 0 | #refresh-btn | — |
-| **S-54** Lot Detail side panel | `1440-light` | **0.1242** | 2 | 3px | 39 | #refresh-btn | TH  num On Hand (lb) (Δx 3px, Δy 0px) |
+| **S-02b** Mini-calendar — expanded month (phone) | `1440-dark` | **0.1335** | 0 | 0px | 0 | #refresh-btn | — |
+| **S-54** Lot Detail side panel | `1440-light` | **0.1335** | 2 | 3px | 39 | #refresh-btn | TH  num On Hand (lb) (Δx 3px, Δy 0px) |
+| **S-54** Lot Detail side panel | `1440-dark` | **0.1335** | 2 | 3px | 39 | #refresh-btn | TH  num On Hand (lb) (Δx 3px, Δy 0px) |
+| **S-01** Site navigation bar | `1440-light` | **0.1334** | 0 | 0px | 0 | #refresh-btn | — |
+| **S-06** Today So Far tile | `1440-light` | **0.1334** | 0 | 0px | 0 | #refresh-btn | — |
+| **S-05** Tab bar (7 tabs) | `1440-dark` | **0.1242** | 0 | 0px | 0 | #refresh-btn | — |
+| **S-55** Lot disambiguation view | `1440-dark` | **0.1242** | 2 | 3px | 41 | #refresh-btn | TH  num On Hand (lb) (Δx 3px, Δy 0px) |
+| **S-56** Product Detail panel (active + depleted lots) | `1440-dark` | **0.1241** | 0 | 0px | 0 | #refresh-btn | — |
+| **S-07** Today So Far — error/retry state | `1440-dark` | **0.113** | 0 | 0px | 0 | #refresh-btn | — |
 | **S-07** Today So Far — error/retry state | `1440-light` | **0.1129** | 0 | 0px | 0 | #refresh-btn | — |
-| **S-07** Today So Far — error/retry state | `1440-dark` | **0.1128** | 0 | 0px | 0 | #refresh-btn | — |
-| **S-03** App header | `1440-light` | **0.1013** | 0 | 0px | 0 | #refresh-btn | — |
-| **S-08** Production Calendar (rolling 5-day) | `1440-light` | **0.1012** | 0 | 0px | 0 | #refresh-btn | — |
-| **S-12** Batch Inventory On-Hand | `1440-dark` | **0.0031** | 2 | 72px | 22 | #refresh-btn | TH  num On Hand (lb) (Δx 72px, Δy 0px) |
-| **S-28** Orders list — Factory Ready toggle + note | `1440-light` | **0.0031** | 8 | 77px | 23 | #refresh-btn | BUTTON  order-expand-toggle ▸ (Δx -1px, Δy -77px) |
-| **S-11** Finished Goods — per-product lot breakdown | `1440-dark` | **0.003** | 2 | 3px | 37 | #refresh-btn | TH  num On Hand (lb) (Δx 3px, Δy 0px) |
-| **S-27** Orders list — expandable line rows | `1440-light` | **0.003** | 8 | 77px | 23 | #refresh-btn | BUTTON  order-expand-toggle ▸ (Δx -1px, Δy -77px) |
-| **S-27** Orders list — expandable line rows | `1440-dark` | **0.003** | 8 | 77px | 23 | #refresh-btn | BUTTON  order-expand-toggle ▸ (Δx -1px, Δy -77px) |
-| **S-28** Orders list — Factory Ready toggle + note | `1440-dark` | **0.003** | 8 | 77px | 23 | #refresh-btn | BUTTON  order-expand-toggle ▸ (Δx -1px, Δy -77px) |
+| **S-13** On-Hand Ingredients | `1440-dark` | **0.1014** | 0 | 0px | 8 | #refresh-btn | — |
+| **S-56** Product Detail panel (active + depleted lots) | `1440-light` | **0.1014** | 2 | 3px | 0 | #refresh-btn | BUTTON theme-toggle btn-theme ☾ (Δx 3px, Δy 0px) |
+| **S-02b** Mini-calendar — expanded month (phone) | `1440-light` | **0.1013** | 0 | 0px | 0 | #refresh-btn | — |
+| **S-05** Tab bar (7 tabs) | `1440-light` | **0.1013** | 0 | 0px | 0 | #refresh-btn | — |
+| **S-13** On-Hand Ingredients | `1440-light` | **0.1013** | 0 | 0px | 8 | #refresh-btn | — |
+| **S-03** App header | `1440-light` | **0.1012** | 0 | 0px | 0 | #refresh-btn | — |
+| **S-21** Notes — empty state | `1440-dark` | **0.0033** | 4 | 4px | 0 | #refresh-btn | BUTTON  mini-calendar-nav Previous month (Δx 4px, Δy 0px) |
 
-_20 further shifting captures omitted; the full list is in `screenshots/results.json`._
+_25 further shifting captures omitted; the full list is in `screenshots/results.json`._
 
 ## Surfaces with no light palette
 

diff --git a/CHANGE_LOG.md b/CHANGE_LOG.md
@@ -1,5 +1,13 @@
 # Change Log
 
+## 2026-09-08 15:39 — Expanded-calendar caption wraps at 390px; harness screen S-02b; IMP-071 toolbar-alignment note
+
+- **File(s) changed:** `dashboard/mini-calendar.css`, `dashboard/mini-calendar.js`, `dashboard/index.html`, `dashboard/sankey.html`, `dashboard/process-flow.html`, `dashboard/traceability.html`, `tests/visual/lib/screens.mjs`, `docs/design/audit/06-browser-check.md`, `docs/design/audit/IMPROVEMENTS-MASTER.md`, `docs/design/audit/pr-screenshots/feat-mobile-entry-screen/after-operations-390-calendar-open.png`, `FACTORY_LEDGER_CHANGELOG.md`
+- **What changed:** `.mini-calendar-caption { white-space: normal }` inside the ≤520px block — the strip sits in `.header-right`, whose `white-space: nowrap` inherits through `display: contents`, so the caption was one long line. Default caption reworded to "Dots mark days with open ship dates. Tap a day for details." New harness screen **S-02b** (Mini-calendar — expanded month, phone) taps the toggle after load so LAYOUT-003 measures the expanded state at 390px. One paragraph under IMP-071 recording the phone Orders toolbar's two alignments (`.orders-filters` keeps `align-items: center` as a column; `.orders-toolbar-actions` stays left). Cache-bust `mini-calendar.css?v=4→5`, `mini-calendar.js?v=5→6` on all four pages; matrix regenerated; the expanded-calendar PR screenshot recaptured.
+- **Why:** Review of PR #33. Measured at 390×844 with the month expanded: `document.documentElement.scrollWidth` 390, caption 344px wide, `white-space: normal`. S-02b at 390 light/dark: 33 of 33 targets ≥44pt, 45 of 45 text nodes AA, 0px overflow, 0 occluded. Full re-run: TOUCH-003 / ACCESS-008 / LAYOUT-003 / LAYOUT-011 cell-identical to the previous branch run; LAYOUT-020 ±5 cells in the known-flaky set. Pushed to `feat/mobile-entry-screen`, not merged.
+
+---
+
 ## 2026-09-08 15:15 — ER-intake review screen: stacked-card layout + match/lb-source honesty (live-smoke fixes)
 - **File(s) changed:** `dashboard/er-intake-logic.js`, `dashboard/dashboard.js`, `dashboard/dashboard.css`, `dashboard/index.html`, `tests/test_er_intake_logic.js`, `FACTORY_LEDGER_CHANGELOG.md`
 - **What changed:** Behavior — an explicit product pick sets `match_source='chosen'` (badge "Chosen", green) so the Fuzzy badge never coexists with an enabled Approve; "Change" (and a failed re-match) restores the server verdict via new `server_match_source`/`server_confidence`; `qty_lb_source` is now only `computed`/`manual` — editing lb/unit no longer labels the untouched expected-lb field "manual"; qty/unit get a `qty_source` tag (from document / edited); lb inputs lost their "?"/"required" placeholders and show an amber "needs lb" flag when empty; footer totals name the blockers while Approve is disabled. Verified against the live smoke case ("tote of honey", Dutch Gold Honey, fuzzy 43% → Honey 11030): an untouched fuzzy line cannot enable Approve — node regression test pins the exact prod /match payload. Layout — the 8-column line table (and the 940px modal widening) replaced by one stacked card per line: vendor text + badge, product row with Change, a single qty × unit → lb/unit → expected lb row with source tags beneath, Include + Save alias footer; compact 2-column header grid; totals + Start over/Approve sticky at the panel bottom. No horizontal scrolling verified in Chrome at 500px and 380px (local uvicorn harness with faked extractor/storage; end-to-end approve exercised, check rows cleaned from the test DB). Cache-busts css v35 / logic v7 / js v52. FACTORY row 118. 35/35 node logic tests; suite 485 passed + known pre-existing test_recent_ledger failure.

diff --git a/docs/design/audit/IMPROVEMENTS-MASTER.md b/docs/design/audit/IMPROVEMENTS-MASTER.md
@@ -1649,6 +1649,11 @@ Needs Attention card, where "Needs Attention" sits beside its two-sentence `.sec
 their narrow halves. The Supplies page header already shows the correct treatment: its hint is `display: block`
 under the title (`2323`).
 
+Same family, seen in the `feat/mobile-entry-screen` 390px captures: in the phone Orders toolbar the `<select>`
+and the two checkboxes centre while the Export / Refresh buttons under them sit left — `.orders-filters` keeps
+its desktop `align-items: center` (`dashboard.css:1396-1398`) when the ≤768px block turns it into a column,
+and `.orders-toolbar-actions` stays a left-aligned row — so one toolbar carries two alignments.
+
 **Fix:** `flex-direction: column; align-items: flex-start; gap: 4px` on `.section-header` below 768 px.
 
 ---
